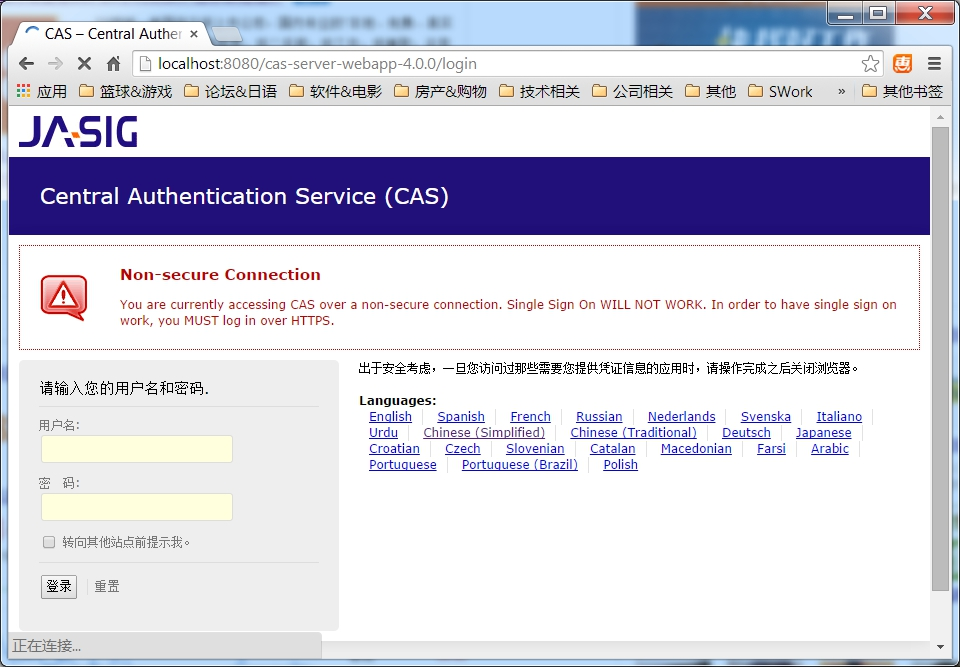
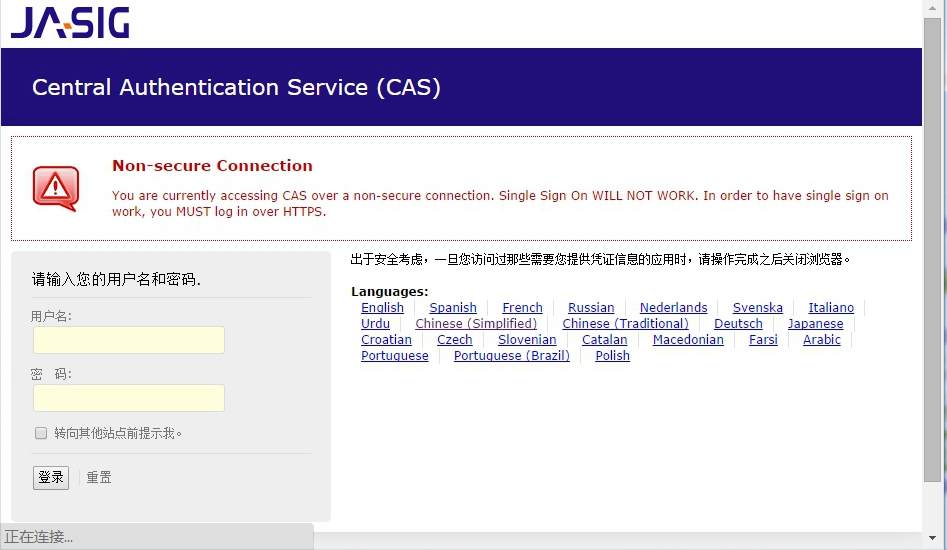
second

diff --git a/_posts/2015-03-04-java-cas_install.md b/_posts/2015-03-04-java-cas_install.md
@@ -36,9 +36,14 @@ cas-server-webapp-4.0.0.war放入tomcat的webapps
 
 启动tomcat
 
-用地址：http://localhost:8080/cas-server-webapp-4.0.0/login，访问
+用地址：http://localhost:8080/cas-server-webapp-4.0.0/login，访问，用默认的英语
+
+用户名：casuser
+密码：Mellon
 
 ![](/assets/cas/cas03.jpg)
+
+![](/assets/cas/cas07.jpg)
 
 
 ##eclipse导入cas-server-webapp-4.0.0.war
